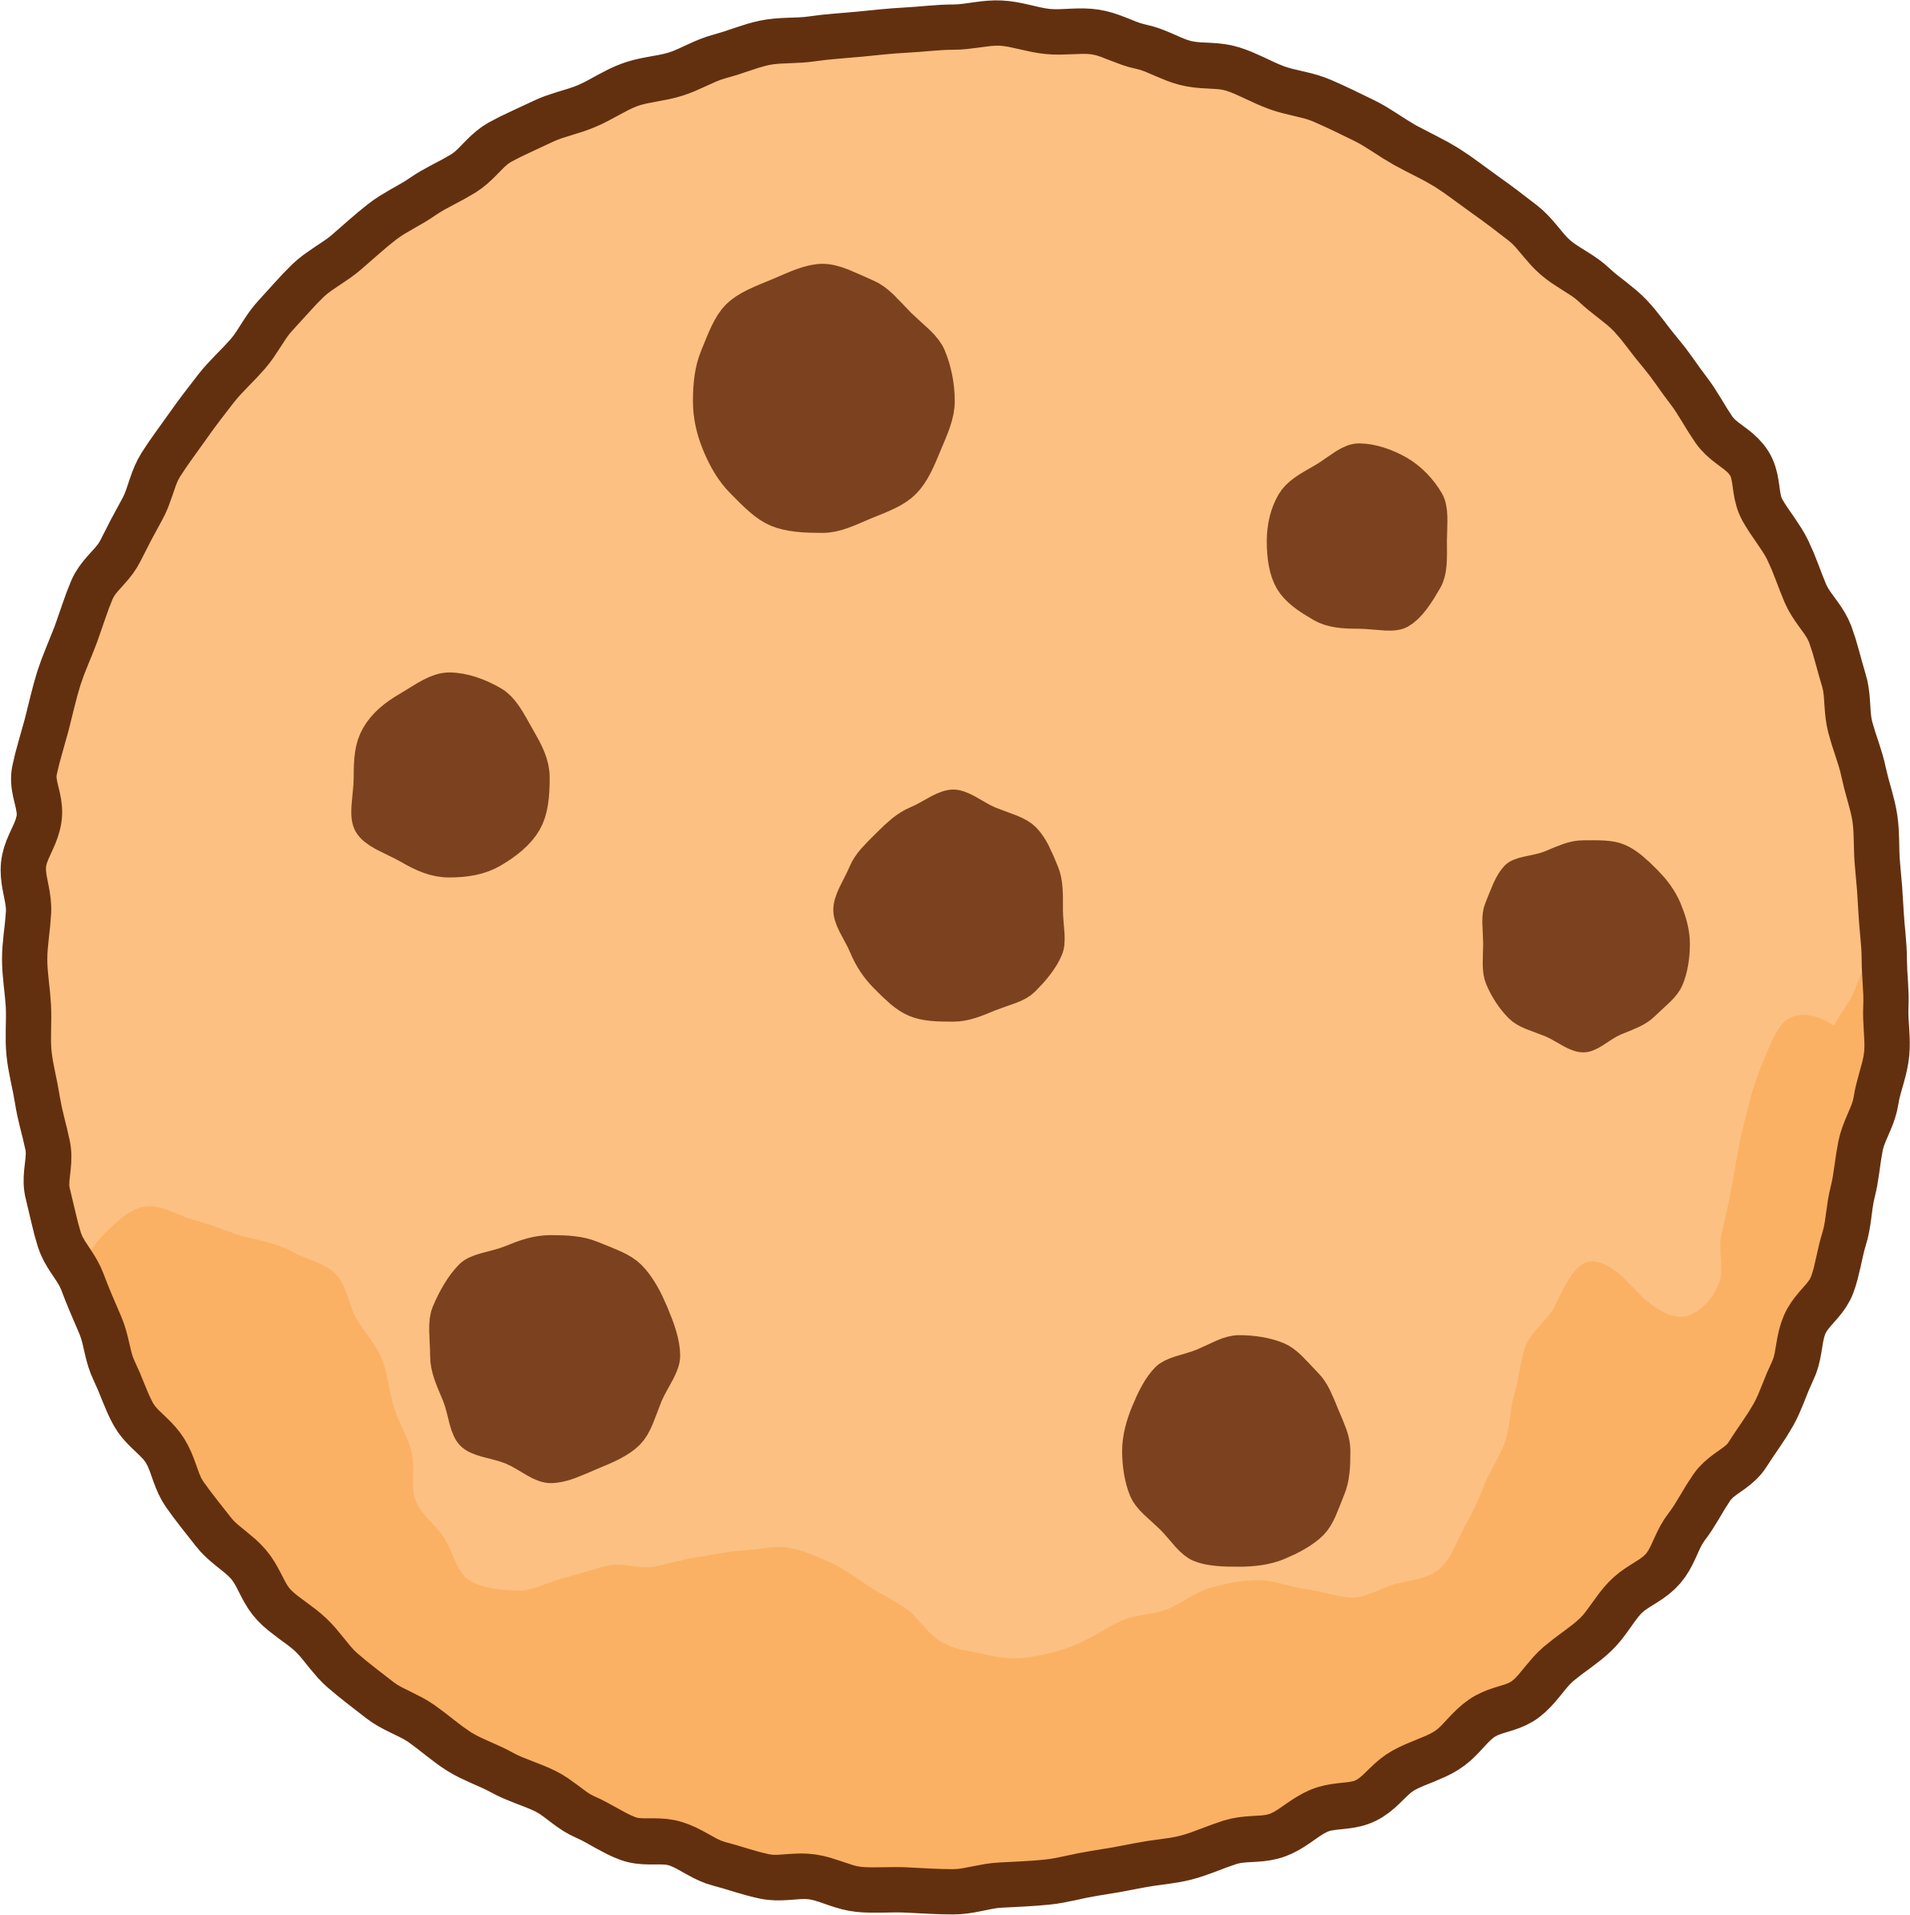
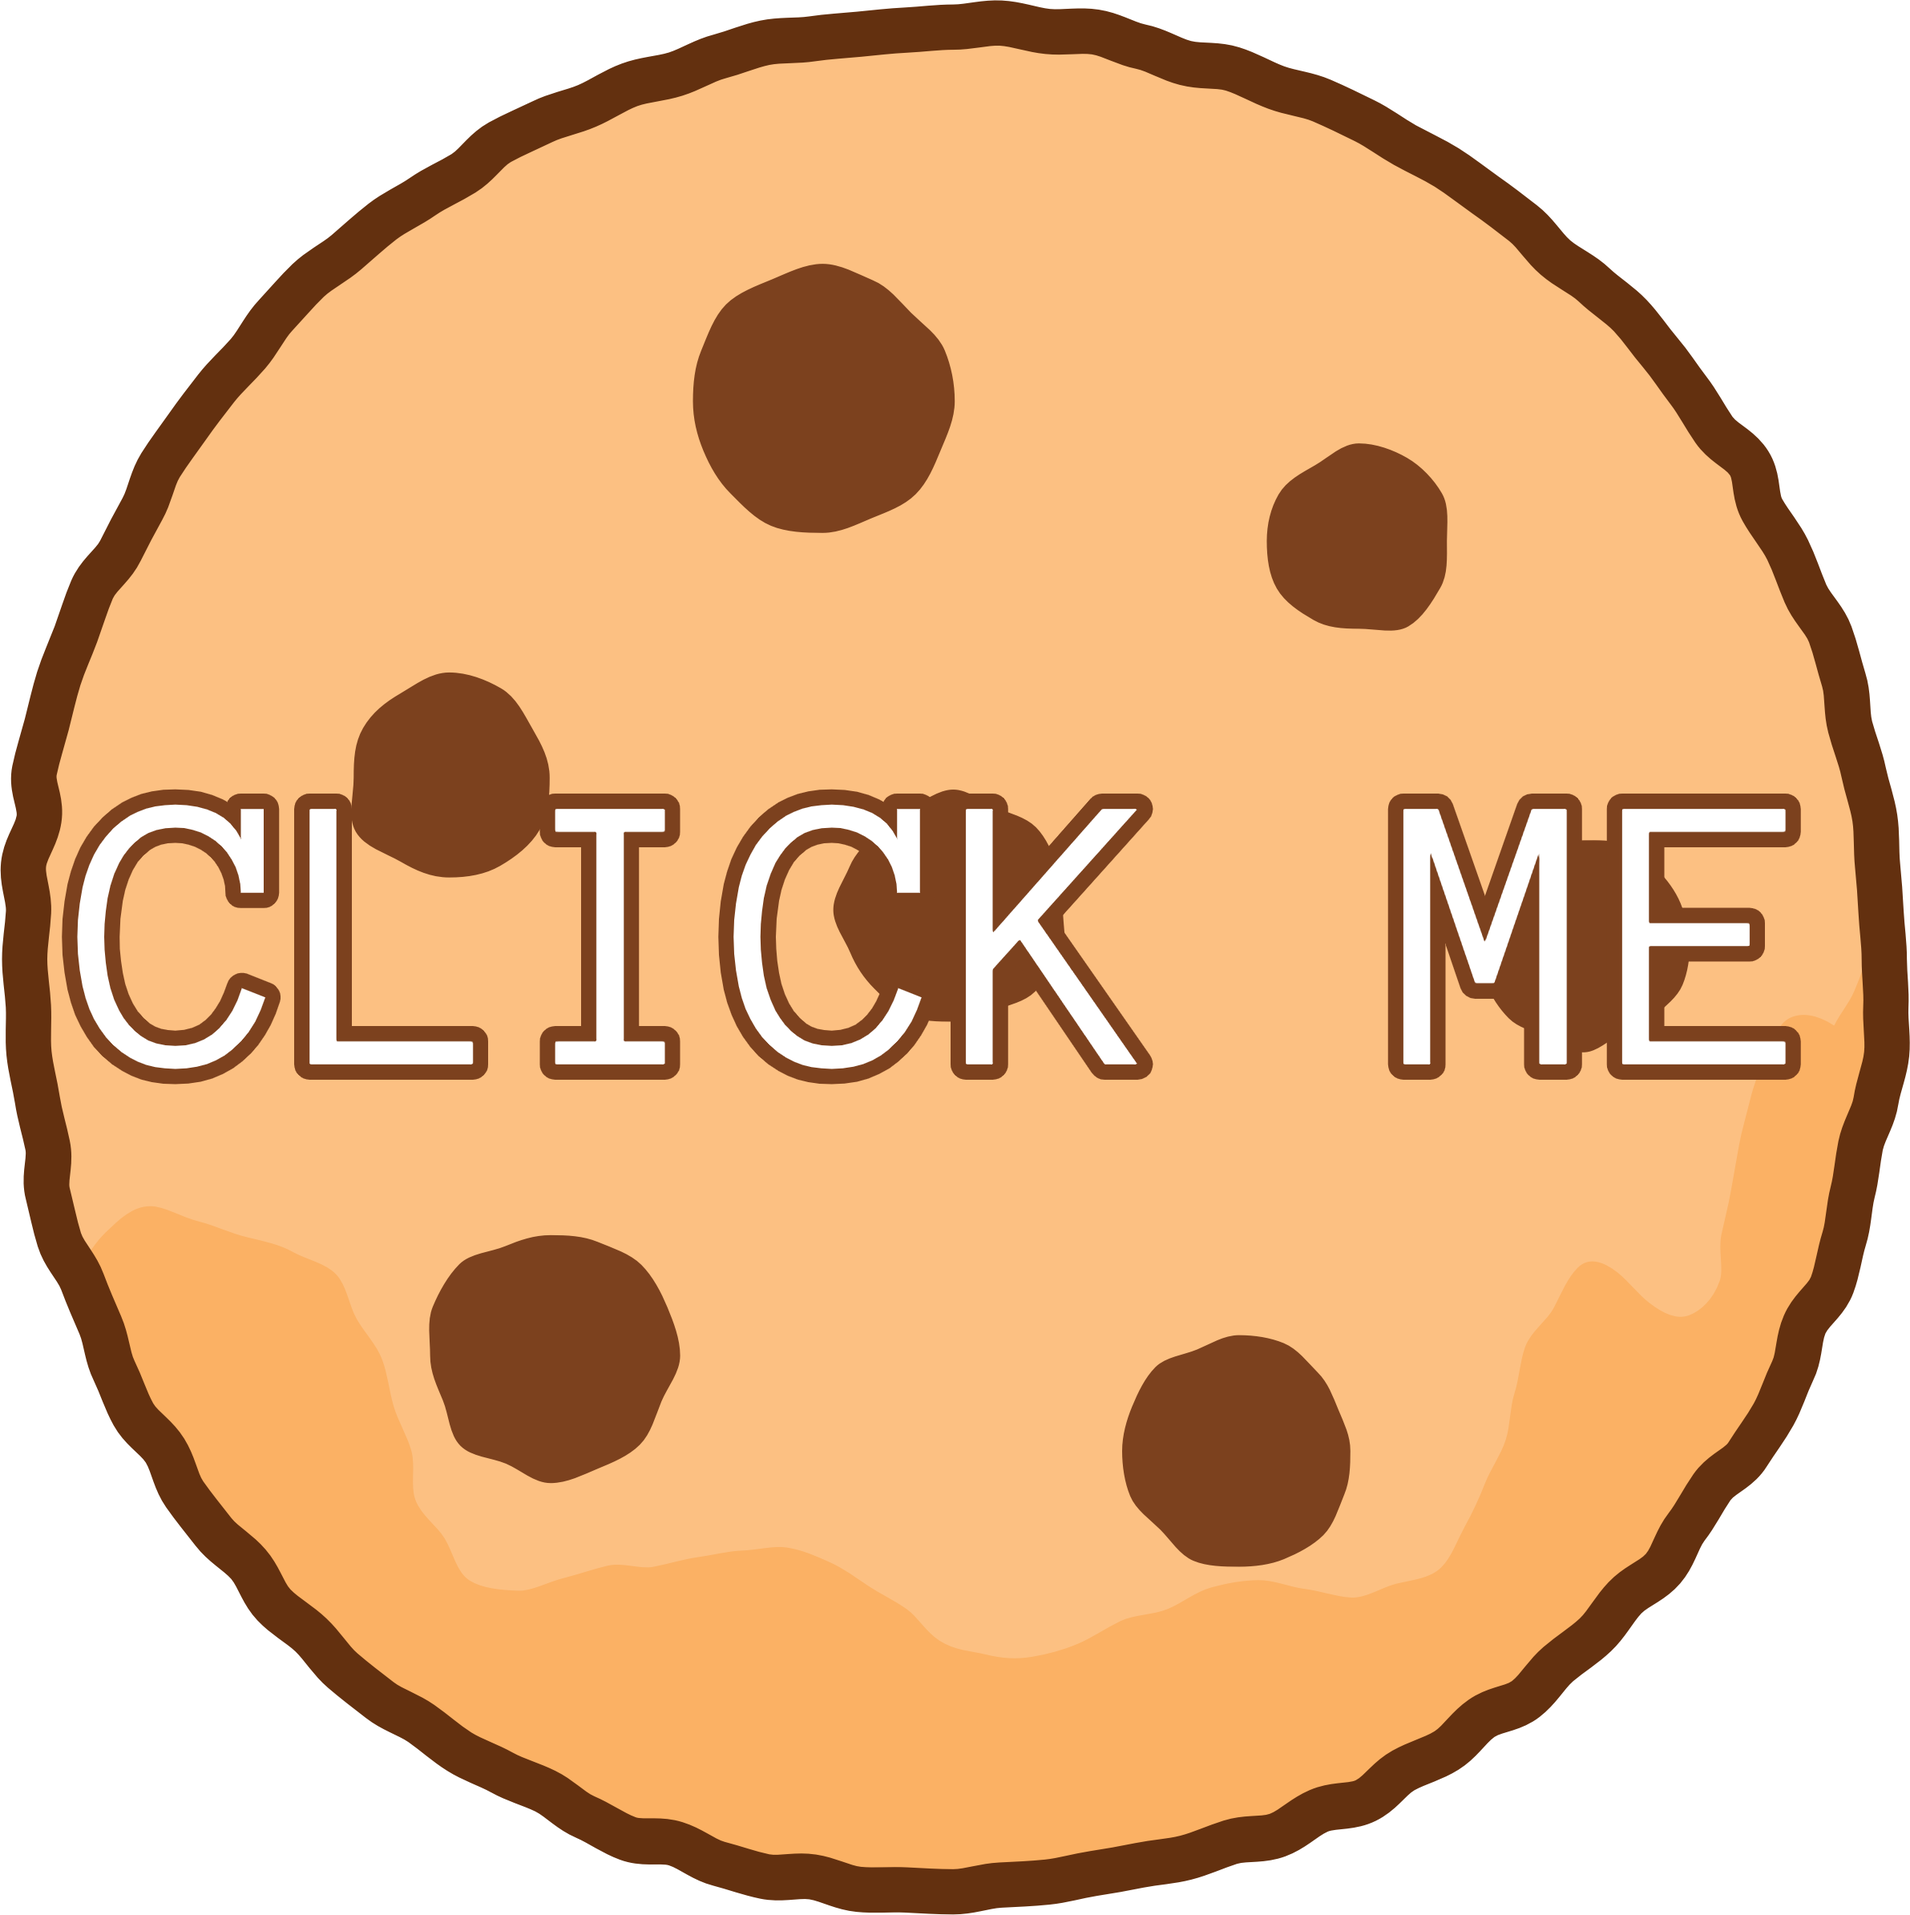
added a cool effect

Changed region(s): [[0.0311, 0.4027, 0.6211, 0.5885], [0.7142, 0.4027, 0.9627, 0.5885]]

diff --git a/index.html b/index.html
@@ -69,7 +69,7 @@ made by TTheHolyOne#1642
             <br>
 
 
-            <div id="cookie" onclick="cookieClick();playCookie();" style="margin:auto;text-align:center;"><img src="https://HolyClicker.ttheholyone.repl.co/assets/images/cookie.png" width="200px">
+            <div id="cookie" onclick="cookieClick();playCookie();" style="margin:auto;text-align:center;" class="cookie"><img src="https://HolyClicker.ttheholyone.repl.co/assets/images/cookie.png" width="200px">
             </div>
         </div>
 
@@ -122,8 +122,9 @@ made by TTheHolyOne#1642
             </p>
         </div>   
 
-		     <button class="cheaterbutton" id="cheats" onclick="window.location.href='https://holyclicker.ttheholyone.repl.co/shop'; playCookie();" style="margin:auto;text-align:center;">Shop</button>
-        <button class="cheaterbutton" id="cheats" onclick="cheatPrompt();playCookie();" style="margin:auto;text-align:center;">Cheats</button> <button class="cheaterbutton" id="reset" onclick=
+		     <button class="cheaterbutton" id="cheats" onclick="window.location.href='https://holyclicker.ttheholyone.repl.co/shop';playCookie();" style="margin:auto;text-align:center;">Shop</button>
+        <button class="cheaterbutton" id="cheats" onclick="cheatPrompt();playCookie();" style="margin:auto;text-align:center;">Cheats</button> 
+		<button class="cheaterbutton" id="reset" onclick=
         "resetPrompt();playCookie();" style="margin:auto;text-align:center;">Reset Save Data</button> <button class="cheaterbutton" id="cheats" onclick="saveData();playCookie();" style=
         "margin:auto;text-align:center;">Load/Save Data</button>
     </div>

diff --git a/assets/css/style.css b/assets/css/style.css
@@ -311,3 +311,11 @@ p {
     background-clip: text;
     -webkit-background-clip: text;
 }
+
+.cookie:active {
+	margin:auto;text-align:center;
+	width:195px;
+	height:195px;
+  	filter: blur(1px);
+	-webkit-filter: blur(1px);
+}

diff --git a/assets/js/script.js b/assets/js/script.js
@@ -321,6 +321,9 @@ if (confirm("Are you sure you would like to cheat?\nThis ruins in-game experienc
 
 
 
+
+
+
 // warnings and logs for console
 
 const msgCon = "Connected To: " + "https://holyclicker.ttheholyone.repl.co/";
